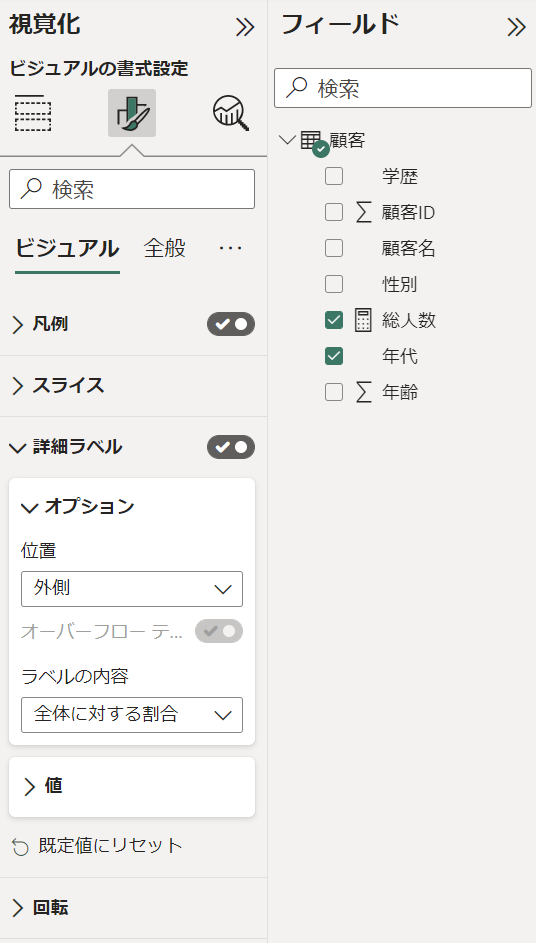
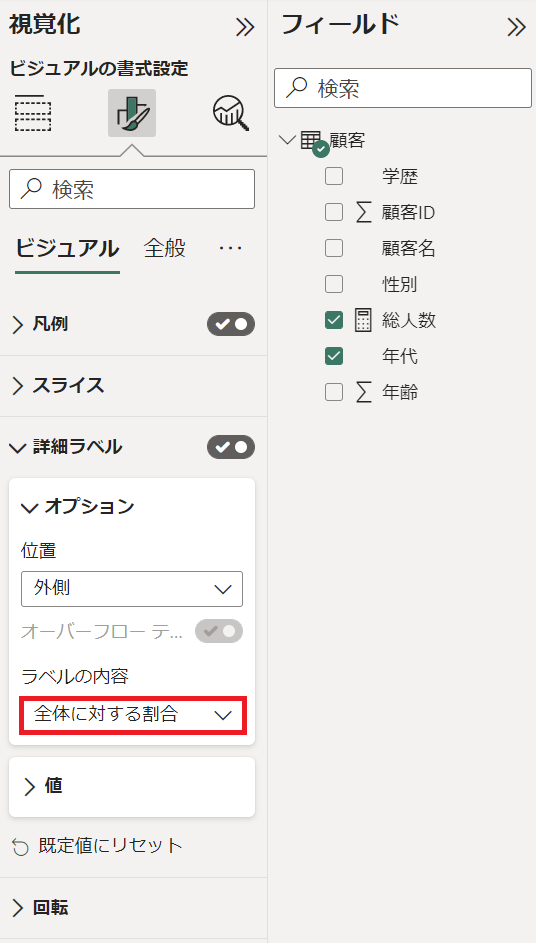
Add markdown (first report guide)

Changed region(s): [[0.0299, 0.7381, 0.4776, 0.7996]]

diff --git a/Hands-on Lab.md b/Hands-on Lab.md
@@ -1,0 +1,324 @@
+# Power BI Hands-on training 
+
+<br />
+
+### **INDEX**
+
+<br />
+
+## はじめてのレポート作成
+
+### **CSV ファイルからデータを読み込み**
+
+- Power BI Desktop を起動
+
+- 「**データを取得**」をクリックし、「**テキスト/CSV**」をクリック
+
+  <img src="images/get-data.png" />
+
+- 「**顧客.csv**」を選択し、「**開く**」をクリック
+
+- **元のファイル**、**区切り記号**、**データ型検出** を設定し、「**読み込み**」をクリック
+
+  - **元のファイル**： 65001: Unicode (UTF-8)
+
+  - **区切り記号**： コンマ
+
+  - **データ型検出**： 最初の 200 行に基づく
+
+    <img src="images/get-customer-csv.png" />
+
+- データモデルに「**顧客**」が追加
+
+  <img src="images/field-customer-master.png" />
+
+<br />
+
+### テーブルの追加
+
+- 「**視覚化**」の「**テーブル**」をクリック
+
+  <img src="images/select-visual-table.png" />
+
+- フィールド リストの「**顧客**」の「**顧客名**」、「**性別**」、「**学歴**」、「**年代**」を選択
+
+  <img src="images/select-customer-field-01.png" />
+
+- 選択した項目が表形式を表示
+
+  <img src="images/select-customer-field-02.png" />
+
+- ドラッグして大きさを調整
+
+<br />
+
+### メジャーの追加 (1)
+
+- 画面右の「**データ**」をクリック
+
+  <img src="images/select-data.png" />
+
+- 「**新しいメジャー**」をクリック
+
+  <img src="images/new-measure.png" />
+
+- 「**数式バー**」に式を入力
+
+   ```
+   総人数 = COUNTROWS('顧客') 
+   ```
+
+- 「**書式設定**」の「**，**」をクリック
+
+  <img src="images/measure-total-number-of-people.png" />
+
+<br />
+
+### カードの追加
+
+- 画面右の「**レポート**」をクリック
+
+  <img src="images/select-report.png" />
+
+- 「**視覚化**」の「**カード**」をクリック
+
+  <img src="images/select-visual-card.png" />
+
+- フィールド リストの「**顧客**」から「**総人数**」を「**フィールド*」を指定
+
+  <img src="images/card-total-number-of-people-01.png" />
+
+- レポートに顧客の総人数を表示
+
+  <img src="images/card-total-number-of-people-02.png" />
+
+- ドラッグして大きさを調整
+
+<br />
+
+### 円グラフの追加
+
+- 「**視覚化**」の「**円グラフ**」をクリック
+
+  <img src="images/select-visual-pie.png" />
+
+- フィールド リストの「**顧客**」から「**年代**」を「**凡例**」に、「**総人数**」を「**値**」を指定
+
+  <img src="images/pie-chart-gender-01.png" />
+
+- 「**ビジュアルの書式設定**（<img src="images/visual-format.png" width="20" />）」を選択
+
+- 「**詳細ラベル**」-「**オプション**」の「**ラベルの内容**」を「**全体に対する割合**」に変更
+
+  <img src="images/pie-chart-gender-02.png" />
+
+- レポートに円グラフで顧客の年代比率を表示
+
+  <img src="images/pie-chart-gender-03.png" />
+
+- ドラッグして大きさを調整
+
+<br />
+
+### ツリー マップの追加
+
+- 「**視覚化**」の「**ツリー マップ**」をクリック
+
+  <img src="images/select-visual-tree-map.png" />
+
+- フィールド リストの「**顧客**」から「**性別**」を「**カテゴリ**」に、「**総人数**」を「**値**」を設定
+
+  <img src="images/tree-map-educational-01.png" />
+
+- レポートにツリー マップで学歴を表示
+
+  <img src="images/tree-map-educational-02.png" />
+
+- ドラッグして大きさを調整
+
+<br />
+
+### マトリックスの追加 (1)
+
+- 「**視覚化**」の「**マトリックス**」をクリック
+
+  <img src="images/select-visual-matrix.png" />
+
+- フィールド リストの「**顧客**」から「**性別**」を「**行**」、「**総人数**」を「**値**」に指定
+
+  <img src="images/matrix-gender-01.png" />
+
+- レポートにマトリックスで性別ごとの人数を表示
+
+<br />
+
+### メジャーの追加 (2)
+
+- 画面右の「**データ**」をクリック
+
+  <img src="images/select-data.png" />
+
+- 「**新しいメジャー**」をクリック
+
+  <img src="images/new-measure.png" />
+
+- 「**数式バー**」に式を入力
+
+  ```
+  人数比 = DIVIDE([総人数], CALCULATE([総人数], REMOVEFILTERS()))
+  ```
+
+- 「**書式設定**」の「**％**」をクリック
+
+  <img src="images/measure-people-ratio.png" />
+
+<br />
+
+### マトリックスの更新 (1)
+
+- 画面右の「**レポート**」をクリック
+
+  <img src="images/select-report.png" />
+
+- 先の手順で追加したマトリックスを選択
+
+- 「**値**」に「**人数比**」をドラッグして配置
+
+  <img src="images/matrix-gender-03.png" />
+
+- マトリックスに人数比が追加
+
+  <img src="images/matrix-gender-04.png" />
+
+- 「**行**」に「**年代**」をドラッグして配置
+
+  <img src="images/matrix-gender-05.png" />
+
+- 「**ビジュアルの書式設定**（<img src="images/visual-format.png" width="20" />）」を選択
+
+- 「**行見出し**」を展開、「**オプション**」の「**階段状レイアウト**」をオフに設定
+
+  <img src="images/matrix-gender-06.png" />
+
+- 「<img src="images/icon-drill-down.png" width="20" />」をクリックし、階層を展開
+
+  <img src="images/matrix-gender-07.png" />
+
+- 性別ごとに年代別の人数と総人数からの比率を表示
+
+  <img src="images/matrix-gender-08.png" />
+
+- ドラッグして大きさを調整
+
+<br />
+
+### メジャーの追加 (3)
+
+- 画面右の「**データ**」をクリック
+
+  <img src="images/select-data.png" />
+
+- 「**新しいメジャー**」をクリック
+
+  <img src="images/new-measure.png" />
+
+- 「**数式バー**」に式を入力
+
+  ```
+  総人数 ％ 年代 = DIVIDE([総人数], CALCULATE([総人数], REMOVEFILTERS('顧客'[年代])))
+  ```
+
+- 「**書式設定**」の「**％**」をクリック
+
+  <img src="images/measure-people-age-ratio.png" />
+
+<br />
+
+### マトリックスの更新 (2)
+
+- 画面右の「**レポート**」をクリック
+
+  <img src="images/select-report.png" />
+
+- 先の手順で追加したマトリックスを選択
+
+- 「**値**」に「**総人数 % 年代**」をドラッグして配置
+
+  <img src="images/matrix-gender-09.png" />
+
+- マトリックスに性別内での年代比率を追加
+
+  <img src="images/matrix-gender-10.png" />
+
+- ドラッグして大きさを調整
+
+<br />
+
+### メジャーの追加 (4)
+
+- 画面右の「**データ**」をクリック
+
+  <img src="images/select-data.png" />
+
+- 「**新しいメジャー**」をクリック
+
+  <img src="images/new-measure.png" />
+
+- 「**数式バー**」に式を入力
+
+  ```
+  総人数 % 学歴 = DIVIDE([総人数], CALCULATE([総人数], REMOVEFILTERS('顧客'[学歴]))) 
+  ```
+- 「**書式設定**」の「**％**」をクリック
+
+  <img src="images/measure-people-edu-ratio.png" />
+
+- 画面右の「**モデル**」をクリック
+
+  <img src="images/select-model.png" />
+
+- フィールド リストの「**顧客**」から「**人数比**」を「**総人数**」、「**総人数 % 学歴**」、「**総人数 % 年代**」を選択
+
+  「**フォルダーの表示**」に **Measures** と入力
+
+  <img src="images/customer-measures-folder-01.png" />
+
+- 追加したメジャーを「**Measures**」フォルダーに整理
+
+  <img src="images/customer-measures-folder-02.png" />
+
+<br />
+
+### マトリックスの追加 (2)
+
+- 「**視覚化**」の「**マトリックス**」をクリック
+
+  <img src="images/select-visual-matrix.png" />
+
+- フィールド リストの「**顧客**」から「**性別**」、「**学歴**」を「**行**」に、 「**総人数**」、「**総人数 % 学歴**」、「**人数比**」を「**値**」に指定
+
+  <img src="images/matrix-educational-01.png" />
+
+- 「**行見出し**」を展開、「**オプション**」の「**階段状レイアウト**」をオフに設定
+
+  <img src="images/matrix-educational-02.png" />
+
+- 指定した内容でレポートにマトリックスが追加
+
+  <img src="images/matrix-educational-02.png" />
+
+- ドラッグして大きさを調整
+
+<br />
+
+### 完成したレポート
+
+<img src="images/report-customer-01.png" />
+
+<br />
+
+※ レポート内をクリックすると、クリックした項目でフィルタリング
+
+<img src="images/report-customer-02.png" />
+
+<br />
